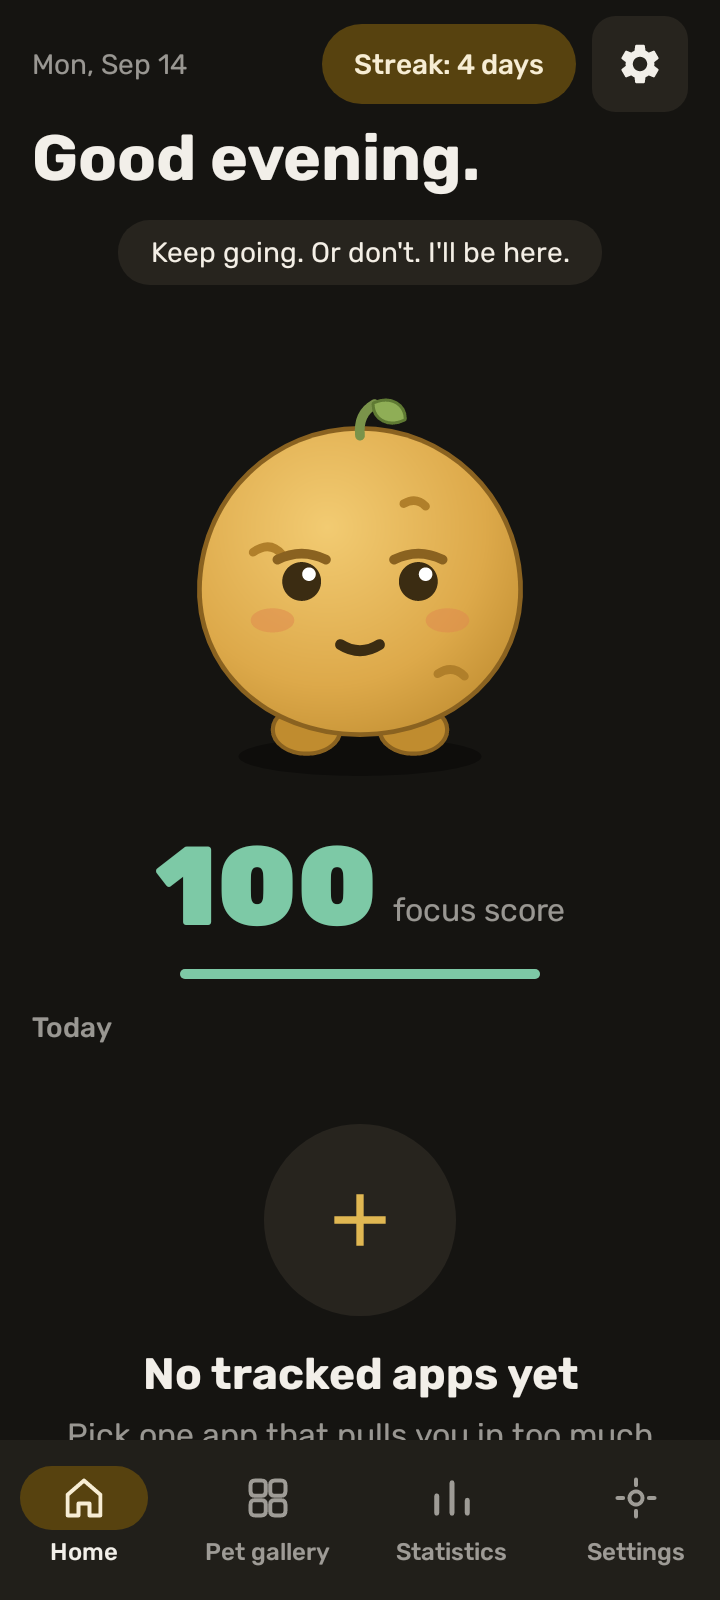
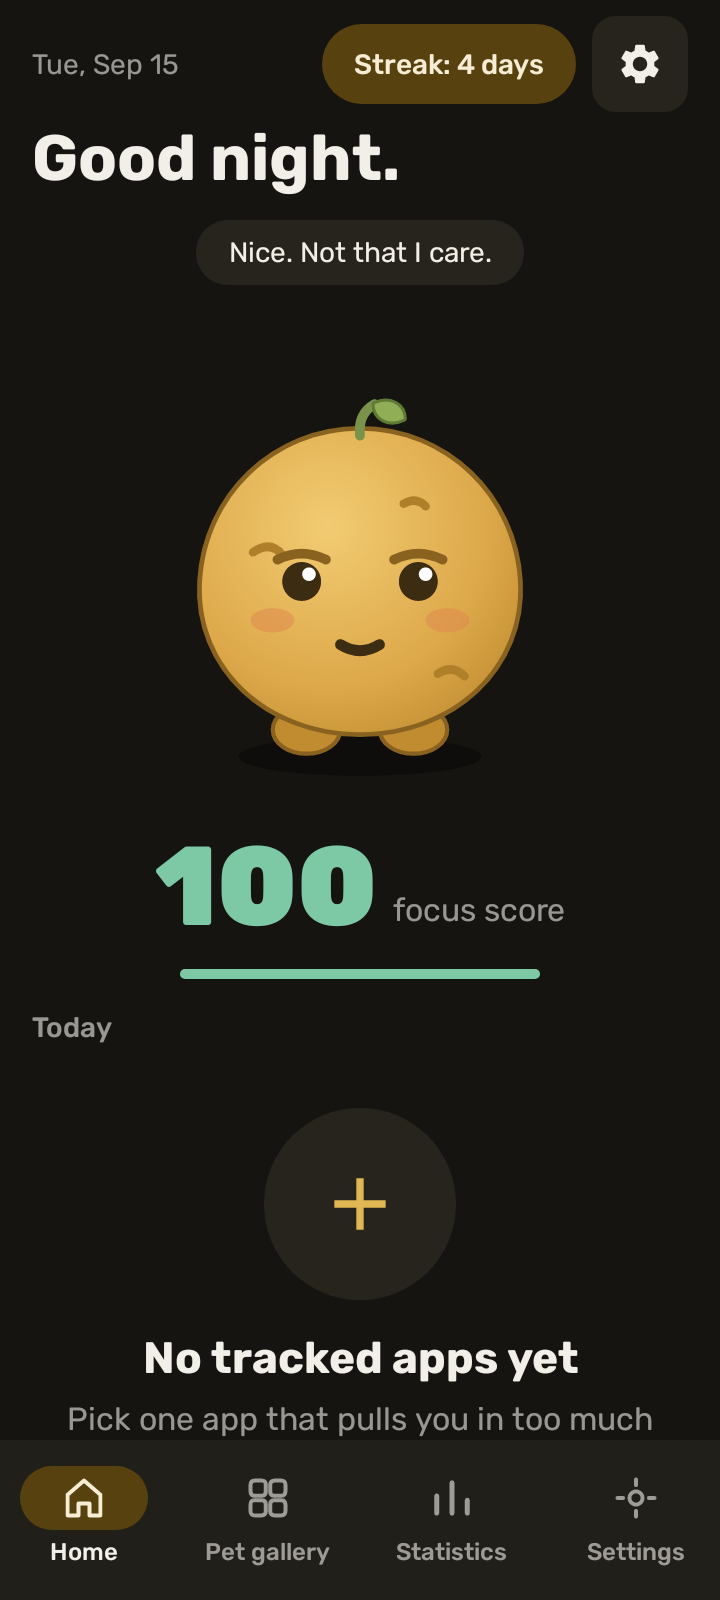
Empty-state plus circle opens the picker
On a fresh install the only visible "+" on the home screen was the big
decorative circle of the empty state; the real "+ Add" button sat below
the fold, so tapping the circle did nothing. EmptyState now takes an
onClick and makes the icon a real button (press scale, button role,
content description). Home, statistics and schedules wire it to the same
action as their button. Vertical padding of empty states drops to 32dp.

The screenshot harness taps the circle on the empty home and expects the
app picker, so this cannot regress silently.

Claude-Session: https://claude.ai/code/session_01712oN9kFUL1YsdHxQkS5kk

diff --git a/core/ui/src/main/kotlin/il/rikavon/core/ui/components/Common.kt b/core/ui/src/main/kotlin/il/rikavon/core/ui/components/Common.kt
@@ -9,6 +9,7 @@ import androidx.compose.animation.core.tween
 import androidx.compose.foundation.Image
 import androidx.compose.foundation.background
 import androidx.compose.foundation.clickable
+import androidx.compose.foundation.interaction.MutableInteractionSource
 import androidx.compose.foundation.layout.Arrangement
 import androidx.compose.foundation.layout.Box
 import androidx.compose.foundation.layout.Column
@@ -338,19 +339,36 @@ fun EmptyState(
     icon: ImageVector? = null,
     illustration: (@Composable () -> Unit)? = null,
     action: (@Composable () -> Unit)? = null,
+    onClick: (() -> Unit)? = null,
 ) {
     Column(
-        modifier = modifier.fillMaxWidth().padding(horizontal = Spacing.xl, vertical = Spacing.xxl),
+        modifier = modifier.fillMaxWidth().padding(horizontal = Spacing.xl, vertical = Spacing.xl),
         horizontalAlignment = Alignment.CenterHorizontally,
     ) {
         if (illustration != null) {
             illustration()
         } else if (icon != null) {
+            // A big round icon reads as a button, so when the state has an action the icon triggers it too.
+            val interaction = remember { MutableInteractionSource() }
+            val tappable =
+                if (onClick == null) {
+                    Modifier
+                } else {
+                    Modifier
+                        .pressScale(interaction)
+                        .clickable(
+                            interactionSource = interaction,
+                            indication = null,
+                            role = Role.Button,
+                            onClick = onClick,
+                        ).semantics { contentDescription = title }
+                }
             Box(
                 modifier =
                     Modifier
                         .popIn()
                         .size(EMPTY_ICON_BOX)
+                        .then(tappable)
                         .background(MaterialTheme.colorScheme.surfaceContainerHigh, CircleShape),
                 contentAlignment = Alignment.Center,
             ) {

diff --git a/app/src/test/kotlin/il/rikavon/screenshots/ScreenshotsTest.kt b/app/src/test/kotlin/il/rikavon/screenshots/ScreenshotsTest.kt
@@ -23,6 +23,7 @@ import androidx.compose.ui.test.filter
 import androidx.compose.ui.test.hasClickAction
 import androidx.compose.ui.test.hasScrollAction
 import androidx.compose.ui.test.junit4.createEmptyComposeRule
+import androidx.compose.ui.test.onAllNodesWithContentDescription
 import androidx.compose.ui.test.onAllNodesWithText
 import androidx.compose.ui.test.onFirst
 import androidx.compose.ui.test.onRoot
@@ -121,7 +122,12 @@ class ScreenshotsTest {
     @Test
     fun homeEmpty() {
         seedBase()
-        launchMain(string("home_empty_title")).use { capture("03_home_empty") }
+        launchMain(string("home_empty_title")).use {
+            capture("03_home_empty")
+            // The big plus circle is the obvious target on a fresh install; it must open the picker.
+            clickDescribed(string("home_empty_title"))
+            waitFor("WhatsApp")
+        }
     }
 
     @Test
@@ -401,6 +407,16 @@ class ScreenshotsTest {
     private fun click(text: String, substring: Boolean = false) {
         compose
             .onAllNodesWithText(text, substring = substring)
+            .filter(hasClickAction())
+            .onFirst()
+            .performSemanticsAction(SemanticsActions.OnClick)
+        settle()
+    }
+
+    /** Same as [click] for nodes identified by content description (icon-only buttons). */
+    private fun clickDescribed(description: String) {
+        compose
+            .onAllNodesWithContentDescription(description)
             .filter(hasClickAction())
             .onFirst()
             .performSemanticsAction(SemanticsActions.OnClick)

diff --git a/feature/blocker/src/main/kotlin/il/rikavon/feature/blocker/ui/stats/StatsScreen.kt b/feature/blocker/src/main/kotlin/il/rikavon/feature/blocker/ui/stats/StatsScreen.kt
@@ -113,6 +113,7 @@ fun StatsScreen(
                         body = stringResource(R.string.stats_empty_body),
                         icon = Icons.Filled.Info,
                         action = { PrimaryButton(text = stringResource(R.string.stats_add_app), onClick = onOpenApps) },
+                        onClick = onOpenApps,
                     )
                 }
                 return@LazyColumn

diff --git a/app/src/main/kotlin/il/rikavon/ui/home/HomeScreen.kt b/app/src/main/kotlin/il/rikavon/ui/home/HomeScreen.kt
@@ -155,6 +155,7 @@ fun HomeScreen(
                         body = stringResource(R.string.home_empty_body),
                         icon = Icons.Filled.Add,
                         action = { PrimaryButton(text = stringResource(R.string.home_add_app), onClick = onOpenApps) },
+                        onClick = onOpenApps,
                     )
                 }
             } else {

diff --git a/feature/blocker/src/main/kotlin/il/rikavon/feature/blocker/ui/schedules/SchedulesScreen.kt b/feature/blocker/src/main/kotlin/il/rikavon/feature/blocker/ui/schedules/SchedulesScreen.kt
@@ -88,6 +88,7 @@ fun SchedulesScreen(
                     body = stringResource(R.string.schedules_empty_body),
                     icon = Icons.Filled.DateRange,
                     action = { PrimaryButton(text = stringResource(R.string.schedules_create), onClick = create) },
+                    onClick = create,
                 )
             }
         } else {
